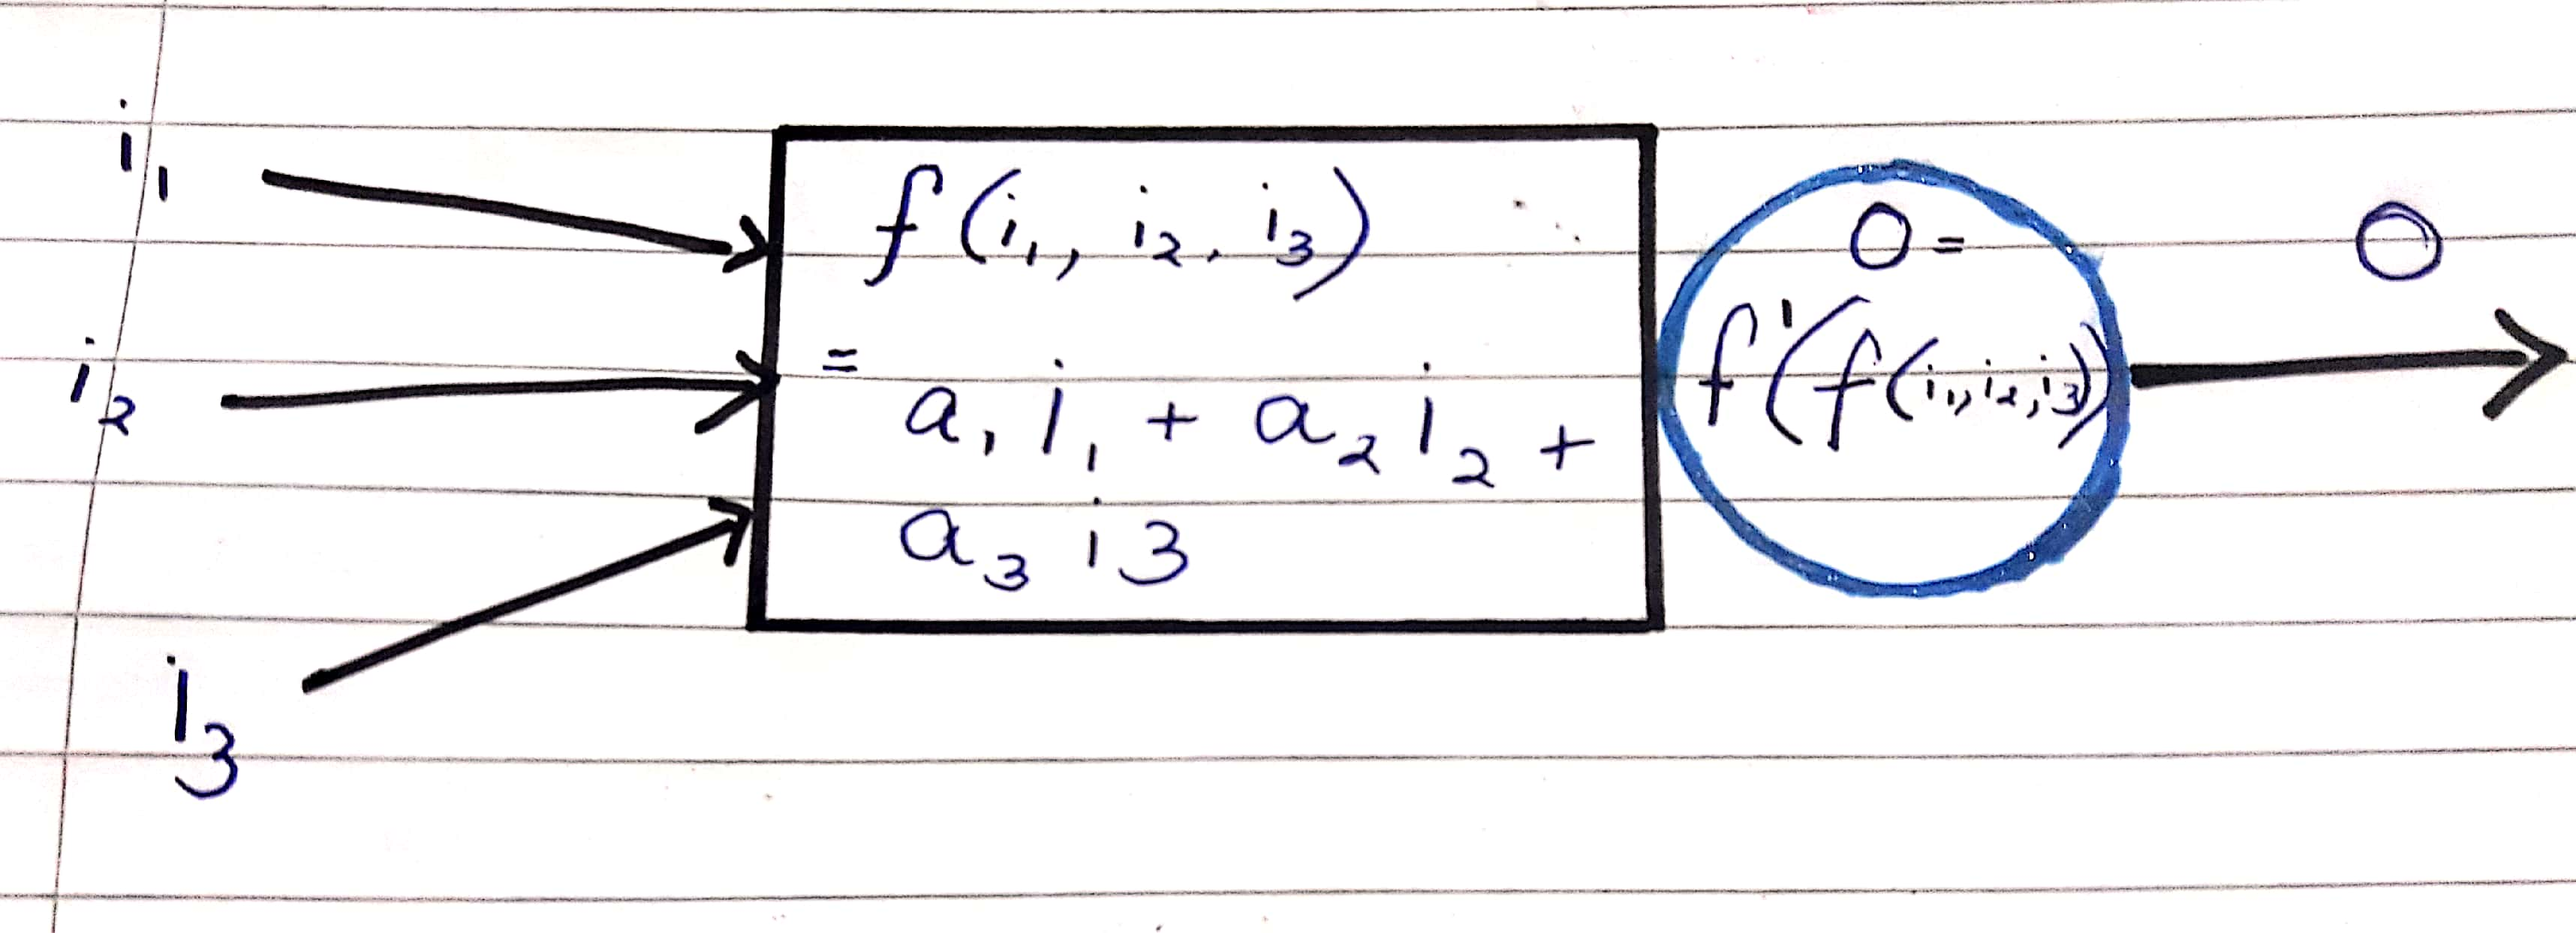
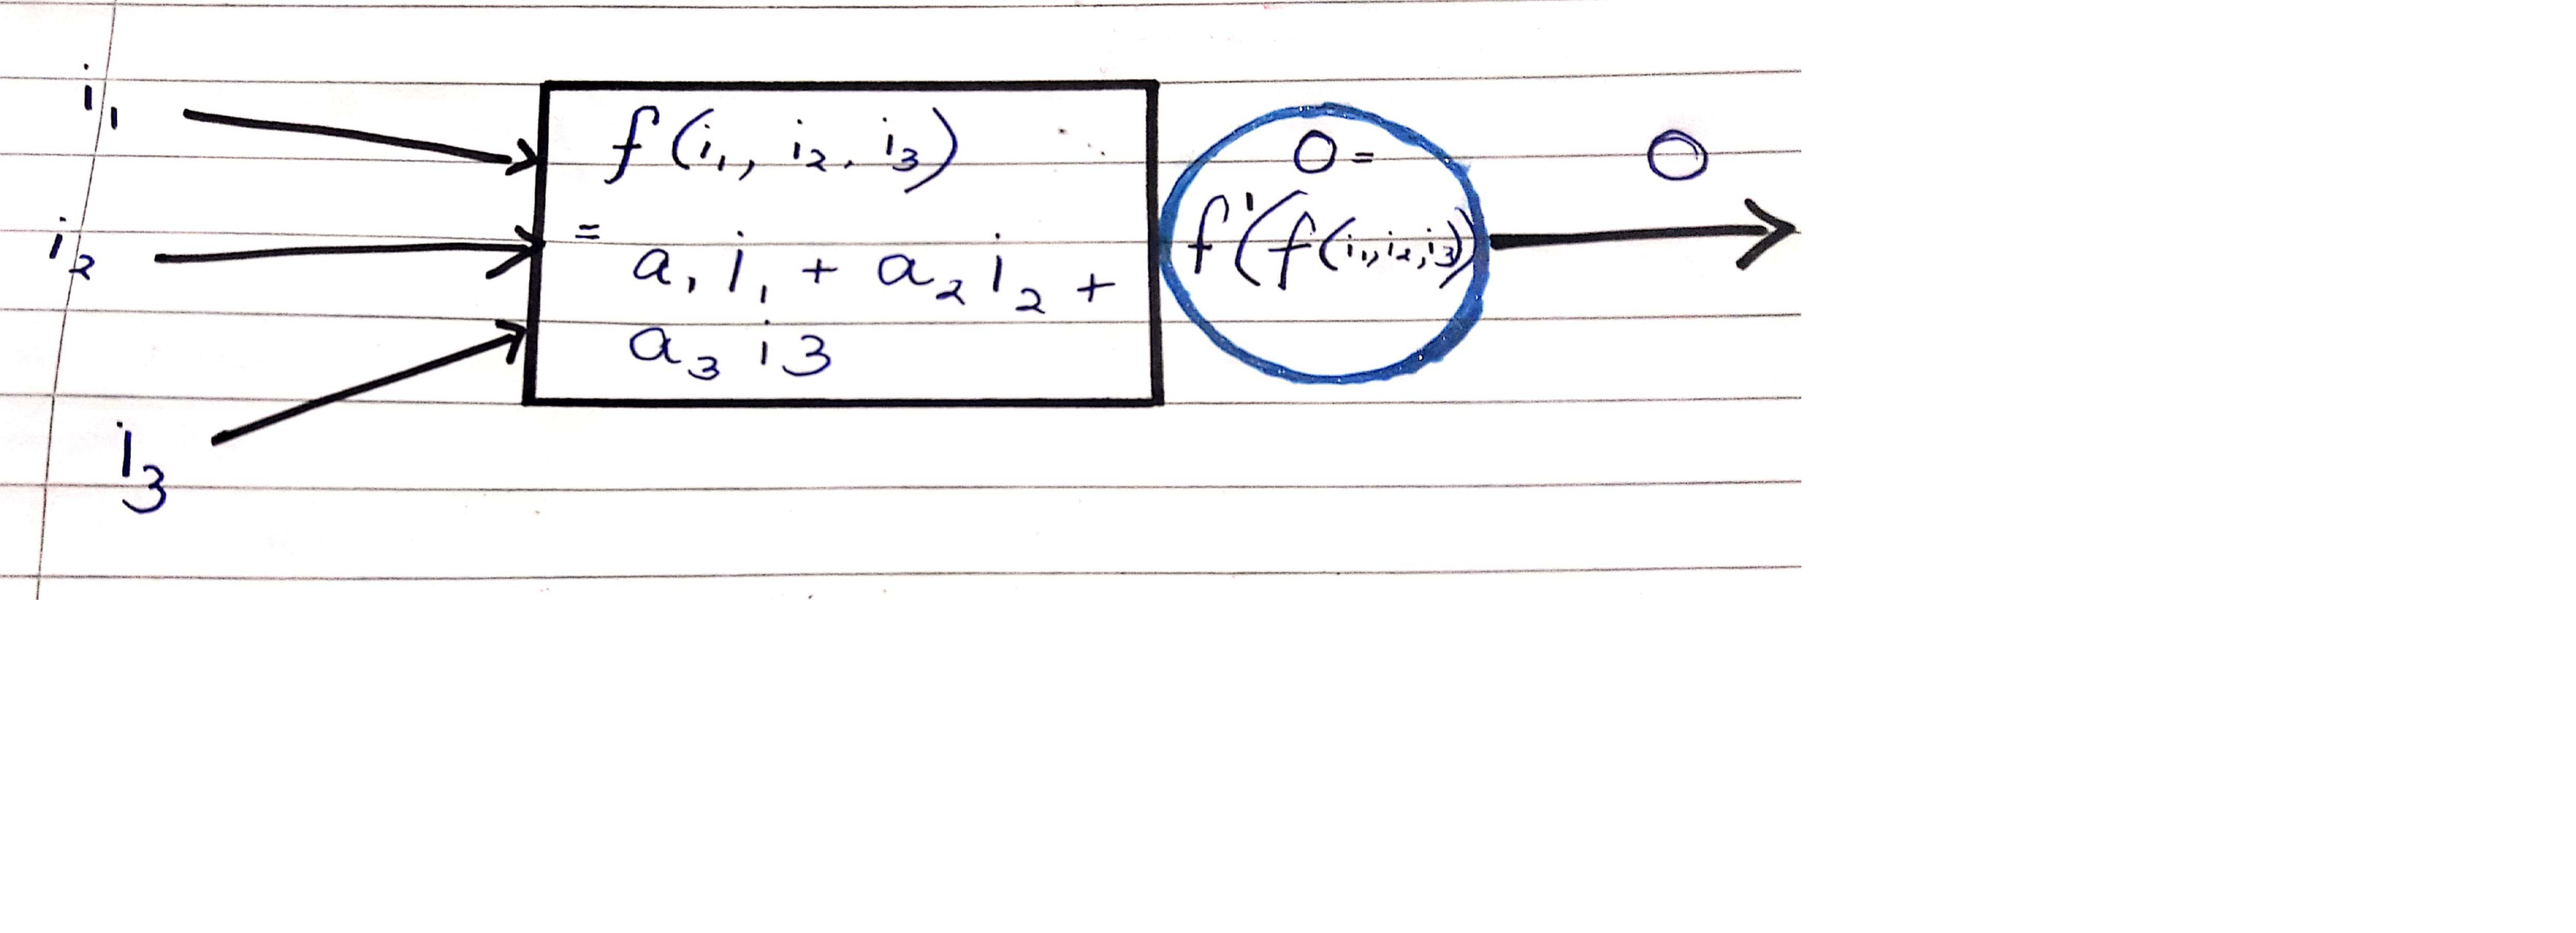
tried natively changing image size

diff --git a/_posts/2018-04-12-neural-nets.md b/_posts/2018-04-12-neural-nets.md
@@ -16,7 +16,7 @@ Let's start with the founding block of a NN- a perceptron (a "neuron"). A percep
 
 To demonstrate graphically, here's a perceptron that takes in 3 inputs: i1, i2 and i3
 
-![perceptron]({{ site.baseurl }}/imgs/perceptron_illustration.jpg | width=20)
+![perceptron]({{ site.baseurl }}/imgs/perceptron_illustration.jpg)
 
 Here's a brightly colored visual depicting precisely "what" the perceptron equation does with the three inputs:
 
